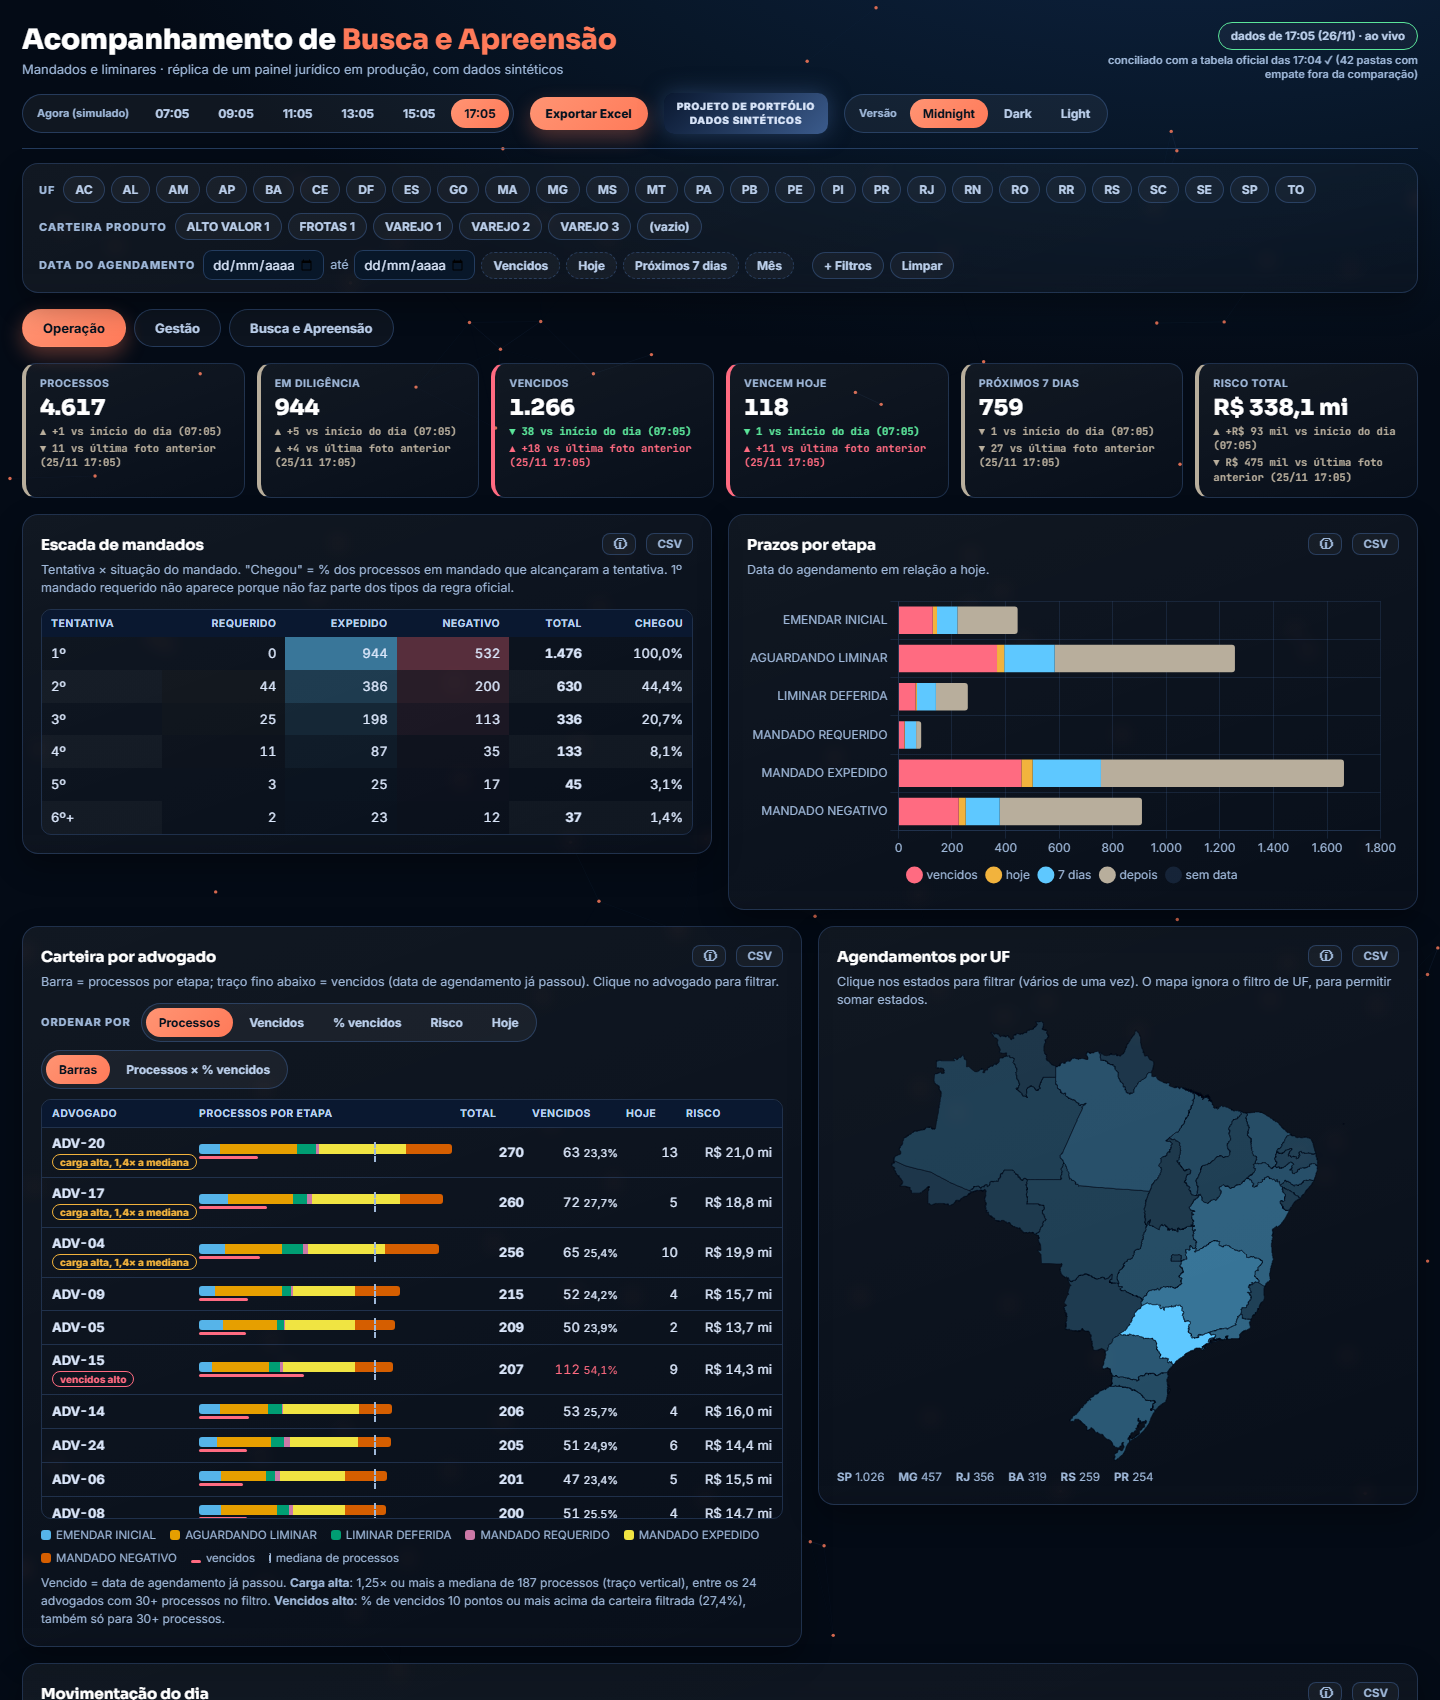
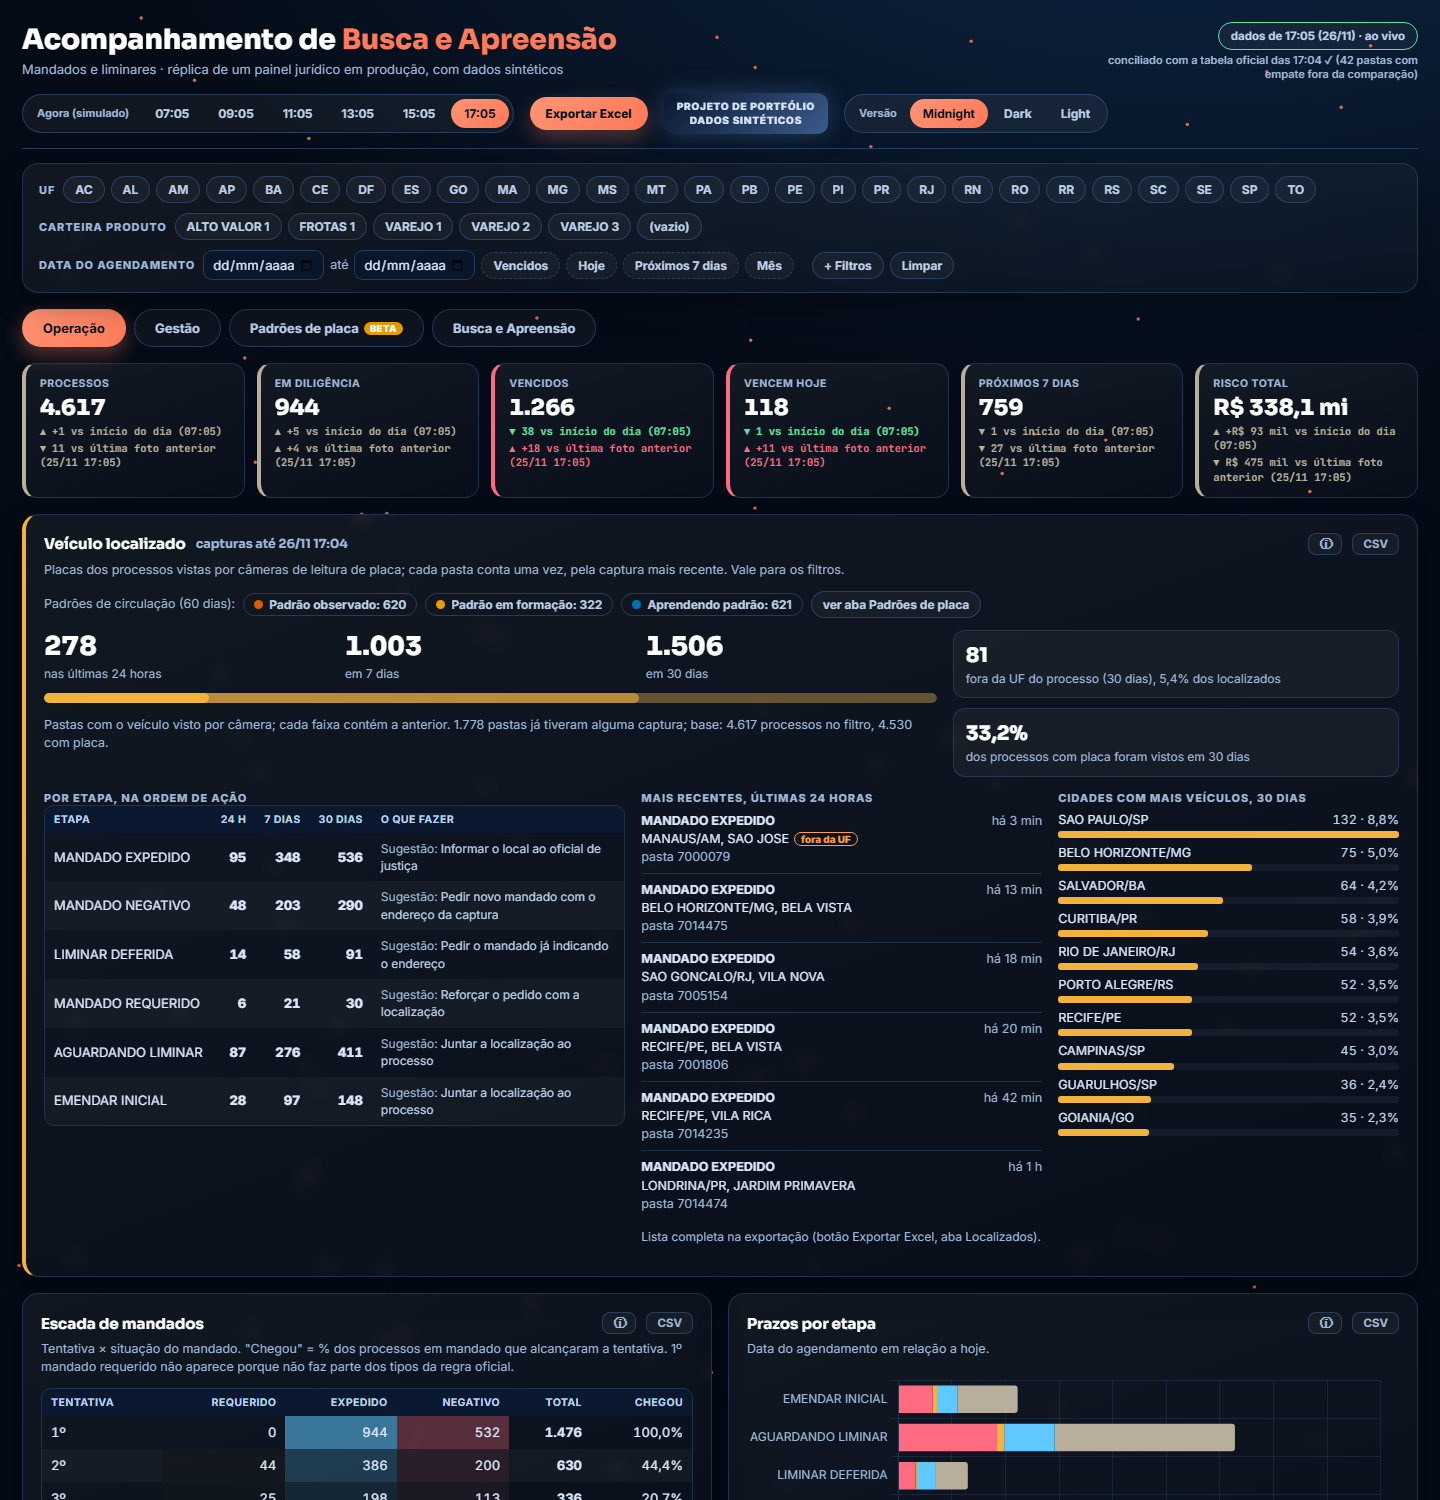
docs: README e capturas da fase 2; link direto para a pasta na aba Padrões

diff --git a/docs/index.html b/docs/index.html
@@ -1636,7 +1636,7 @@ function renderPadroes(R) {
   const pag = lista.slice(PD.pag * POR_PAG, (PD.pag + 1) * POR_PAG);
   trocarHTML($("pd-lista"), !lista.length ? VAZIO(PD.busca ? "Nenhum contrato encontrado nos estados selecionados — selecione outros estados na faixa acima para procurar em Sem captura/Sem placa." : "Nenhum contrato nos estados e filtros selecionados.")
     : `<div class="tblwrap" style="max-height:none"><table class="t"><thead><tr><th>Pasta</th><th style="text-align:left">Etapa</th><th style="text-align:left">Estado</th><th style="text-align:left">Ponto principal</th><th>Última passagem</th></tr></thead><tbody>` +
-      pag.map(x => `<tr class="pdl${x.i === PD.sel ? " sel" : ""}" tabindex="0" data-pdsel="${x.i}"><td>${esc(x.pasta)}</td><td class="esq">${esc(x.etapa)}</td><td class="esq">${tagEstado(x.estado)}${x.dias ? ` <small class="muted">${x.dias} ${x.dias === 1 ? "dia" : "dias"}</small>` : ""}</td><td class="esq">${esc(x.principal || "—")}</td><td>${x.ult !== null ? quandoBR(x.ult) : "—"}</td></tr>`).join("") + `</tbody></table></div>`);
+      pag.map(x => `<tr class="pdl${x.i === PD.sel ? " sel" : ""}" tabindex="0" data-pdsel="${x.i}"><td>${esc(x.pasta)}</td><td class="esq">${esc(x.etapa)}</td><td class="esq">${tagEstado(x.estado)}${x.dias ? ` <small class="muted" style="white-space:nowrap">${x.dias} ${x.dias === 1 ? "dia" : "dias"}</small>` : ""}</td><td class="esq">${esc(x.principal || "—")}</td><td>${x.ult !== null ? quandoBR(x.ult) : "—"}</td></tr>`).join("") + `</tbody></table></div>`);
   $("pd-pag").innerHTML = lista.length ? `<button class="chip" data-pdpag="-1" ${PD.pag ? "" : "disabled"} aria-label="página anterior">‹</button> ${PD.pag + 1} de ${nPag} · ${int(lista.length)} contratos <button class="chip" data-pdpag="1" ${PD.pag < nPag - 1 ? "" : "disabled"} aria-label="próxima página">›</button>` : "";
   carregarPlacas().then(() => { if (S.aba === "padroes") { renderDetalhe(lista); desenharMapa(lista); } });
 }
@@ -1795,6 +1795,8 @@ function iniciar() {
   construirFiltros();
   const m = /aba=(oper|gest|padroes|planilha)/.exec(location.search + location.hash);
   S.R = A.tudo(D, S.agora, S.f); renderTopo(); renderAtivos();
+  const lp = /pasta=(\w+)/.exec(location.search + location.hash);   // link direto para o detalhe de uma pasta na aba Padrões
+  if (lp && D.placas) { const i = D.pastas.pasta.indexOf(lp[1]); if (i >= 0) { PD.sel = i; PD.estados = new Set(D.placas.estados); PD.busca = lp[1]; $("pd-busca").value = lp[1]; } }
   const aba = m ? m[1] : (store.get("bap_aba") || "oper");
   // capturas de tela: desenha depois das fontes, senão o Chart.js mede os rótulos com a fonte provisória
   if (ESTATICO && document.fonts) document.fonts.ready.then(() => aplicarAba(aba)); else aplicarAba(aba);

diff --git a/src/painel.html b/src/painel.html
@@ -1021,7 +1021,7 @@ function renderPadroes(R) {
   const pag = lista.slice(PD.pag * POR_PAG, (PD.pag + 1) * POR_PAG);
   trocarHTML($("pd-lista"), !lista.length ? VAZIO(PD.busca ? "Nenhum contrato encontrado nos estados selecionados — selecione outros estados na faixa acima para procurar em Sem captura/Sem placa." : "Nenhum contrato nos estados e filtros selecionados.")
     : `<div class="tblwrap" style="max-height:none"><table class="t"><thead><tr><th>Pasta</th><th style="text-align:left">Etapa</th><th style="text-align:left">Estado</th><th style="text-align:left">Ponto principal</th><th>Última passagem</th></tr></thead><tbody>` +
-      pag.map(x => `<tr class="pdl${x.i === PD.sel ? " sel" : ""}" tabindex="0" data-pdsel="${x.i}"><td>${esc(x.pasta)}</td><td class="esq">${esc(x.etapa)}</td><td class="esq">${tagEstado(x.estado)}${x.dias ? ` <small class="muted">${x.dias} ${x.dias === 1 ? "dia" : "dias"}</small>` : ""}</td><td class="esq">${esc(x.principal || "—")}</td><td>${x.ult !== null ? quandoBR(x.ult) : "—"}</td></tr>`).join("") + `</tbody></table></div>`);
+      pag.map(x => `<tr class="pdl${x.i === PD.sel ? " sel" : ""}" tabindex="0" data-pdsel="${x.i}"><td>${esc(x.pasta)}</td><td class="esq">${esc(x.etapa)}</td><td class="esq">${tagEstado(x.estado)}${x.dias ? ` <small class="muted" style="white-space:nowrap">${x.dias} ${x.dias === 1 ? "dia" : "dias"}</small>` : ""}</td><td class="esq">${esc(x.principal || "—")}</td><td>${x.ult !== null ? quandoBR(x.ult) : "—"}</td></tr>`).join("") + `</tbody></table></div>`);
   $("pd-pag").innerHTML = lista.length ? `<button class="chip" data-pdpag="-1" ${PD.pag ? "" : "disabled"} aria-label="página anterior">‹</button> ${PD.pag + 1} de ${nPag} · ${int(lista.length)} contratos <button class="chip" data-pdpag="1" ${PD.pag < nPag - 1 ? "" : "disabled"} aria-label="próxima página">›</button>` : "";
   carregarPlacas().then(() => { if (S.aba === "padroes") { renderDetalhe(lista); desenharMapa(lista); } });
 }
@@ -1180,6 +1180,8 @@ function iniciar() {
   construirFiltros();
   const m = /aba=(oper|gest|padroes|planilha)/.exec(location.search + location.hash);
   S.R = A.tudo(D, S.agora, S.f); renderTopo(); renderAtivos();
+  const lp = /pasta=(\w+)/.exec(location.search + location.hash);   // link direto para o detalhe de uma pasta na aba Padrões
+  if (lp && D.placas) { const i = D.pastas.pasta.indexOf(lp[1]); if (i >= 0) { PD.sel = i; PD.estados = new Set(D.placas.estados); PD.busca = lp[1]; $("pd-busca").value = lp[1]; } }
   const aba = m ? m[1] : (store.get("bap_aba") || "oper");
   // capturas de tela: desenha depois das fontes, senão o Chart.js mede os rótulos com a fonte provisória
   if (ESTATICO && document.fonts) document.fonts.ready.then(() => aplicarAba(aba)); else aplicarAba(aba);

diff --git a/README.md b/README.md
@@ -7,6 +7,7 @@ Quando o cliente para de pagar o financiamento do veículo e nem a cobrança nem
 Este painel responde às perguntas do jurídico:
 - **O que fazer hoje:** o que vence, onde está cada processo, quem está sobrecarregado.
 - **Onde trava e quanto vale:** quanto risco há em cada etapa e quanto do valor o veículo cobre.
+- **Onde está o veículo:** quais placas as câmeras de leitura viram, onde e em que etapa está o processo, e que padrão de circulação se repete.
 
 É a réplica de um painel que construí e mantenho em produção, com o código escrito do zero. A mesma base do meu painel de Monitoramento (fotos do dia, travas de publicação, evolução) aplicada à área jurídica.
 
@@ -18,17 +19,23 @@ Este painel responde às perguntas do jurídico:
 
 1. **"Agora (simulado)", no topo.** O painel real atualiza a cada 30 minutos; aqui você escolhe o horário do dia simulado (26/11/2026). Dois horários mostram as travas em ação:
    - **11:05:** a leitura veio incompleta, a guarda de volume rejeita a rodada e o painel continua com a publicação anterior;
-   - **13:05:** a via ao vivo cai e o painel publica a tabela oficial (o selo muda para "tabela oficial").
+   - **13:05:** a via ao vivo cai e o painel publica a tabela oficial (o selo muda para "tabela oficial");
+   - **15:05:** a leitura das capturas de placa falha, e o card Veículo localizado mantém a carga das 13:05, com aviso.
 2. **Filtros** (valem para todas as abas e para a exportação): UF, carteira, data do agendamento (com os atalhos Vencidos, Hoje, Próximos 7 dias e Mês), advogado, etapa e produto do veículo.
 3. **Aba Operação:**
    - KPIs com variação contra o início do dia e contra o dia anterior;
+   - **Veículo localizado:** pastas vistas por câmera em 24 horas, 7 e 30 dias, por etapa com a sugestão do que fazer, as capturas mais recentes ("há 13 min") e as cidades;
    - escada de mandados e prazos por etapa;
    - carteira por advogado, com os sinais "carga alta" e "vencidos alto";
-   - **mapa clicável**: escolha um ou mais estados e o **Detalhe da região** compara cada UF com o Brasil (1 UF, 2 a 4 lado a lado, ou 5+ em tabela);
+   - **mapa clicável**, por processos ou por veículos localizados: escolha um ou mais estados e o **Detalhe da região** compara cada UF com o Brasil (1 UF, 2 a 4 lado a lado, ou 5+ em tabela);
    - movimentação do dia.
 4. **Aba Gestão:** destaques escritos por regra, risco × valor do bem, cobertura, carteira × etapa, comarcas, perfil do veículo e a evolução diária por etapa.
-5. **Aba Busca e Apreensão:** o modo planilha, com as três tabelas dinâmicas da planilha original do jurídico (Produtivos, Follow e Em diligência).
-6. **Exportar Excel:** um `.xlsx` com os filtros ativos (BD com as 62 colunas, Resumo, Prazos, Advogados, Movimentação, Filtros e, com UF escolhida, Regiões). Cada card também tem seu **CSV**.
+5. **Aba Padrões de placa (BETA):** o que se repetiu nas capturas dos últimos 60 dias, por pasta:
+   - seis estados (padrão observado, em formação, aprendendo, sem captura recente, sem captura, sem placa);
+   - lista com busca por pasta ou placa e o detalhe da pasta: ponto principal, ordem habitual pelo horário (A → B → C), área, dias da semana, horário e endereço do banco ("perto de casa");
+   - mapa de ruas (OpenStreetMap) com os pontos, a sequência e a área. Link direto: [`?aba=padroes&pasta=7008085`](https://alajunior.github.io/acompanhamento-busca-apreensao/?aba=padroes&pasta=7008085).
+6. **Aba Busca e Apreensão:** o modo planilha, com as três tabelas dinâmicas da planilha original do jurídico (Produtivos, Follow e Em diligência).
+7. **Exportar Excel:** um `.xlsx` com os filtros ativos (BD com as 62 colunas, Resumo, Prazos, Advogados, Movimentação, Localizados, Padroes, Filtros e, com UF escolhida, Regiões). Cada card também tem seu **CSV**.
 
 Os cards de análise têm um botão **ⓘ** com o "como ler". São três temas (Midnight, Dark e Light), e o painel funciona no celular.
 
@@ -42,9 +49,11 @@ Os cards de análise têm um botão **ⓘ** com o "como ler". São três temas (
 | **A regra** | Agenda de tarefas abertas → **uma linha por pasta** (62 colunas). Ficam só os 21 tipos válidos; uma tarefa BAIXADO tira a pasta inteira. Vence o dia de agendamento mais recente; no mesmo dia, **LIMINAR DEFERIDA > EMENDAR INICIAL > AGUARDANDO LIMINAR** (só quando todas as tarefas do dia estão nesse trio); depois decidem a hora e o maior ID | [`src/regra.py`](src/regra.py) |
 | **Travas de publicação** | Toda publicação vira foto. Rodada com menos de **85%** das linhas da anterior é rejeitada (aceita se a seguinte confirmar a queda, com até 2% de diferença). Se a via ao vivo falha, entra a tabela oficial | [`src/publicacao.py`](src/publicacao.py) |
 | **Conciliação** | A "tabela oficial" simulada reproduz a procedure real, que escolhe **ao acaso** entre tarefas do mesmo dia. A conciliação compara por tipo (fora as pastas com empate), por carteira e por pasta, com tolerância de max(5, 2%) | [`src/conciliacao.py`](src/conciliacao.py) |
-| **Payload** | 44 fotos (39 dias de histórico, sem domingo, mais as 5 de hoje). A primeira vai inteira; as demais, só como **delta** do que mudou. O painel inteiro cabe em um HTML de ~710 KB | [`src/montar_painel.py`](src/montar_painel.py) |
-| **Agregações** | Os filtros rodam no navegador ([`src/agregar.js`](src/agregar.js)). Uma referência independente em Python ([`src/referencia.py`](src/referencia.py)) calcula os mesmos números, e o **teste de paridade** roda o JS no Node e compara tudo em 49 combinações de filtros | [`tests/test_paridade.py`](tests/test_paridade.py) |
-| **Painel** | HTML, CSS e JS puro, Chart.js e um mapa em SVG próprio. Animações respeitam `prefers-reduced-motion`. A exportação `.xlsx` é feita no navegador (SheetJS) | [`src/painel.html`](src/painel.html), [`src/exportar.js`](src/exportar.js) |
+| **Capturas de placa** | Cerca de 20 mil capturas sintéticas. Cada veículo visto tem uma rotina de 1 a 3 pontos fixos (casa, trabalho, outro) perto de uma cidade real, com hora típica e dias sorteados, mais capturas esparsas; alguns são vistos em outra UF. Vêm com os defeitos da fonte real: placa com traço e minúscula, coordenada vazia ou (0,0), texto "undefined", duplicatas, acento na cidade | [`dados/capturas.py`](dados/capturas.py) |
+| **Padrões** | Para cada carga de capturas (os horários do "agora"): células de ~330 m, ponto principal (mais dias distintos), estado pelos dias (≥ 6, 4–5, 1–3), faixa de 2 h circular (23h–1h vale), sequência com letras, área por envoltória convexa e distância haversine, e o "perto de casa" pelo prefixo do CEP | [`src/padroes.py`](src/padroes.py) |
+| **Payload** | 44 fotos (39 dias de histórico, sem domingo, mais as 5 de hoje). A primeira vai inteira; as demais, só como **delta** do que mudou. As 6 cargas de capturas seguem o mesmo esquema. O painel cabe em um HTML de ~920 KB; o detalhe das placas (~2,1 MB) fica em `placas.json`, carregado só ao abrir a aba ou exportar | [`src/montar_painel.py`](src/montar_painel.py) |
+| **Agregações** | Os filtros rodam no navegador ([`src/agregar.js`](src/agregar.js)). Uma referência independente em Python ([`src/referencia.py`](src/referencia.py)) calcula os mesmos números, e o **teste de paridade** roda o JS no Node e compara tudo em 52 combinações de filtros, mais a lista da aba Padrões e as bordas das janelas de 24 h, 7 e 30 dias | [`tests/test_paridade.py`](tests/test_paridade.py) |
+| **Painel** | HTML, CSS e JS puro, Chart.js, um mapa do Brasil em SVG próprio e Leaflet com OpenStreetMap na aba Padrões. Animações respeitam `prefers-reduced-motion`. A exportação `.xlsx` é feita no navegador (SheetJS) | [`src/painel.html`](src/painel.html), [`src/exportar.js`](src/exportar.js) |
 
 **Funil simulado contra o real** (mediana de dias antes da apreensão, só dos processos apreendidos):
 
@@ -58,6 +67,8 @@ Os cards de análise têm um botão **ⓘ** com o "como ler". São três temas (
 
 No dia simulado são **4.617 processos**, 27% com agendamento vencido e 42 pastas com empate de tarefas no mesmo dia. Nos empates entre AGUARDANDO LIMINAR e EMENDAR INICIAL, a etapa real é EMENDAR em cerca de 87%, a proporção medida no histórico do sistema real: é por isso que a precedência do fluxo põe EMENDAR na frente. A conciliação com a tabela oficial fecha nas três recargas.
 
+Nas placas, às 17:05: 1.506 pastas tiveram o veículo visto em 30 dias (33% das que têm placa), 278 nas últimas 24 horas e 81 fora da UF do processo. Pelos padrões, 620 pastas estão em padrão observado, 322 em formação e 621 aprendendo.
+
 ## Decisões
 
 - **Site estático, não servidor.** O painel real é um app Flask com atualizador. Aqui o Python faz o trabalho pesado (simulação, regra, travas, fotos) e o navegador só filtra e agrega. Assim o link abre na hora, inclusive no celular. O preço é ter as agregações em JavaScript, e é para isso que existe o teste de paridade com o Python.
@@ -70,7 +81,12 @@ No dia simulado são **4.617 processos**, 27% com agendamento vencido e 42 pasta
 - **Empate não é erro da regra.** A procedure oficial escolhe ao acaso entre duas tarefas do mesmo dia. Por isso a conciliação deixa essas pastas fora da comparação por tipo, e o painel aplica a precedência do fluxo nelas.
 - **Uma etapa extinta, como na vida real.** EMENDA REALIZADA deixa de existir em 03/11: as tarefas abertas migram para AGUARDANDO LIMINAR. A evolução conta os dias antigos à parte, com aviso, em vez de sumir com eles.
 - **Os estados de falha são encenados.** No painel real, a guarda de volume e a queda para a tabela oficial só aparecem quando acontecem. Aqui eles ficam em horários fixos do "agora", para quem avalia ver as travas funcionando.
+- **Padrões calculados no Python, não no navegador.** Os padrões dependem de geometria (células, envoltória convexa, haversine) e mudam pouco ao longo do dia. O Python calcula cada carga uma vez, e só as pastas cujas capturas mudaram são recalculadas e gravadas. O navegador só conta por filtro, e essas contagens também estão na paridade.
+- **Detalhe sob demanda.** O resumo das placas vai no HTML, porque o card, o mapa e a lista precisam dele já na abertura. O detalhe de cada pasta fica no `placas.json` e só carrega quando a aba abre. Aberto como arquivo local, o painel avisa e o resto continua funcionando.
+- **Descreve, não prevê.** A aba Padrões diz onde o veículo costuma passar e em que horário, como no painel real. Não estima probabilidade de apreensão.
 - **Nenhum nome de pessoa.** Advogados são códigos (um nome inventado pode coincidir com o de uma pessoa real) e os destaques nunca citam advogado.
+
+![Aba Padrões de placa: detalhe de uma pasta com a ordem habitual A → B → C](docs/painel_placas.png)
 
 ![Aba Busca e Apreensão (modo planilha)](docs/painel_planilha.png)
 
@@ -79,25 +95,27 @@ No dia simulado são **4.617 processos**, 27% com agendamento vencido e 42 pasta
 ```bash
 pip install -r requirements.txt
 python -m dados.gerar --verificar      # simulação + conferência do funil (~15 s)
-python -m src.montar_painel            # docs/index.html e docs/bd.json
-python -m pytest                       # 88 testes (a paridade e a exportação precisam do Node)
+python -m src.montar_painel            # docs/index.html, docs/bd.json e docs/placas.json
+python -m pytest                       # 129 testes (a paridade e a exportação precisam do Node)
 ```
 
-Abra `docs/index.html` no navegador. Para a aba BD do `.xlsx`, sirva a pasta (`python -m http.server --directory docs`), porque o navegador não carrega `bd.json` de um arquivo local.
+Abra `docs/index.html` no navegador. Para o detalhe da aba Padrões e para as abas BD, Localizados e Padroes do `.xlsx`, sirva a pasta (`python -m http.server --directory docs`), porque o navegador não carrega `bd.json` nem `placas.json` de um arquivo local.
 
 ## Estrutura
 
 ```
 dados/gerar.py               simulação dos processos e fontes (agenda, estoque, garantia, cor, distribuição)
+dados/capturas.py            capturas de placa por câmera e endereços do banco
 src/regra.py                 agenda → uma linha por pasta (21 tipos, precedência, empates, 62 colunas)
 src/publicacao.py            fotos, guarda de 85%, queda para a tabela oficial, roteiro do dia simulado
 src/conciliacao.py           nossa regra × tabela oficial
-src/montar_painel.py         payload em delta + build de docs/index.html e docs/bd.json
+src/padroes.py               capturas → resumo do localizado e padrões de circulação, por carga
+src/montar_painel.py         payload em delta + build de docs/index.html, docs/bd.json e docs/placas.json
 src/agregar.js               agregações do painel (navegador e Node)
 src/referencia.py            as mesmas agregações em Python, para a paridade
 src/exportar.js              CSV por card e abas do .xlsx
 src/painel.html              o painel (HTML, CSS e JS puro)
-tests/                       88 testes: simulação, regra, travas, conciliação, payload, referência, paridade, exportação, guarda de publicação
+tests/                       129 testes: simulação, capturas, padrões, regra, travas, conciliação, payload, referência, paridade, exportação, guarda de publicação
 docs/                        o painel publicado, a base da exportação e as imagens deste README
 ```
 

diff --git a/LICENCAS.md b/LICENCAS.md
@@ -5,3 +5,5 @@
 | `docs/vendor/chart.umd.min.js` | [Chart.js](https://www.chartjs.org) 4.5.1 | MIT |
 | `docs/vendor/xlsx.full.min.js` | [SheetJS Community Edition](https://sheetjs.com) 0.18.5 | Apache-2.0 |
 | `docs/vendor/br_uf.json` | contornos das UFs pré-projetados em paths SVG a partir de `brazil-states.geojson` do projeto [click_that_hood](https://github.com/codeforgermany/click_that_hood) | ver o repositório de origem |
+| `docs/vendor/leaflet.js`, `docs/vendor/leaflet.css` | [Leaflet](https://leafletjs.com) 1.9.4 | BSD-2-Clause |
+| mapa de ruas da aba Padrões (carregado da rede) | [OpenStreetMap](https://www.openstreetmap.org/copyright) | dados © colaboradores do OpenStreetMap, ODbL |
